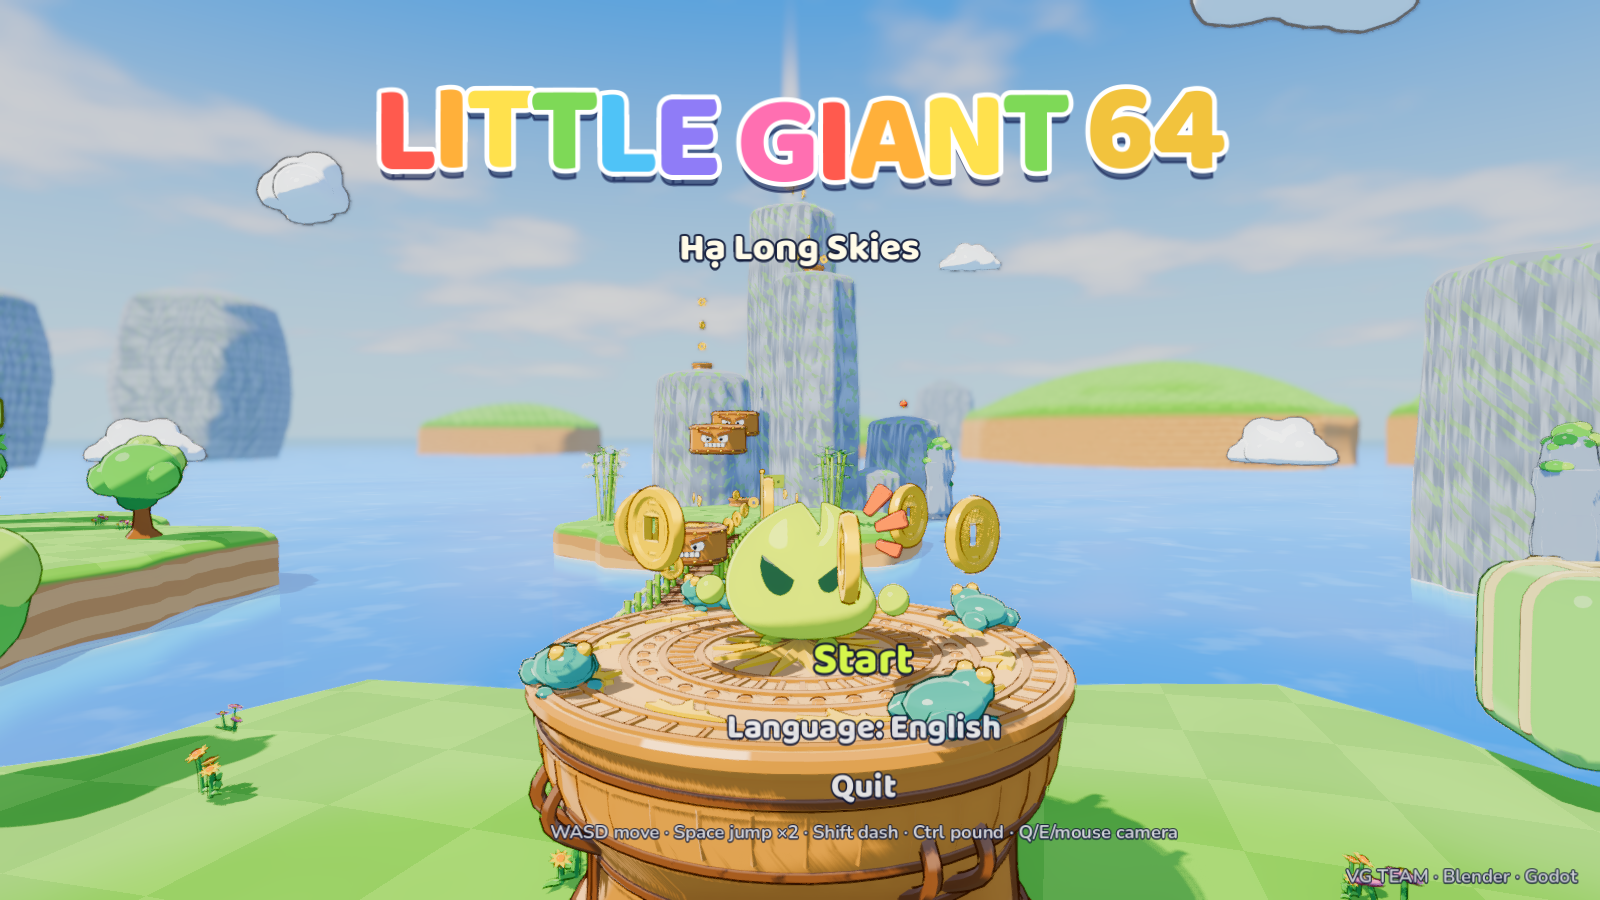
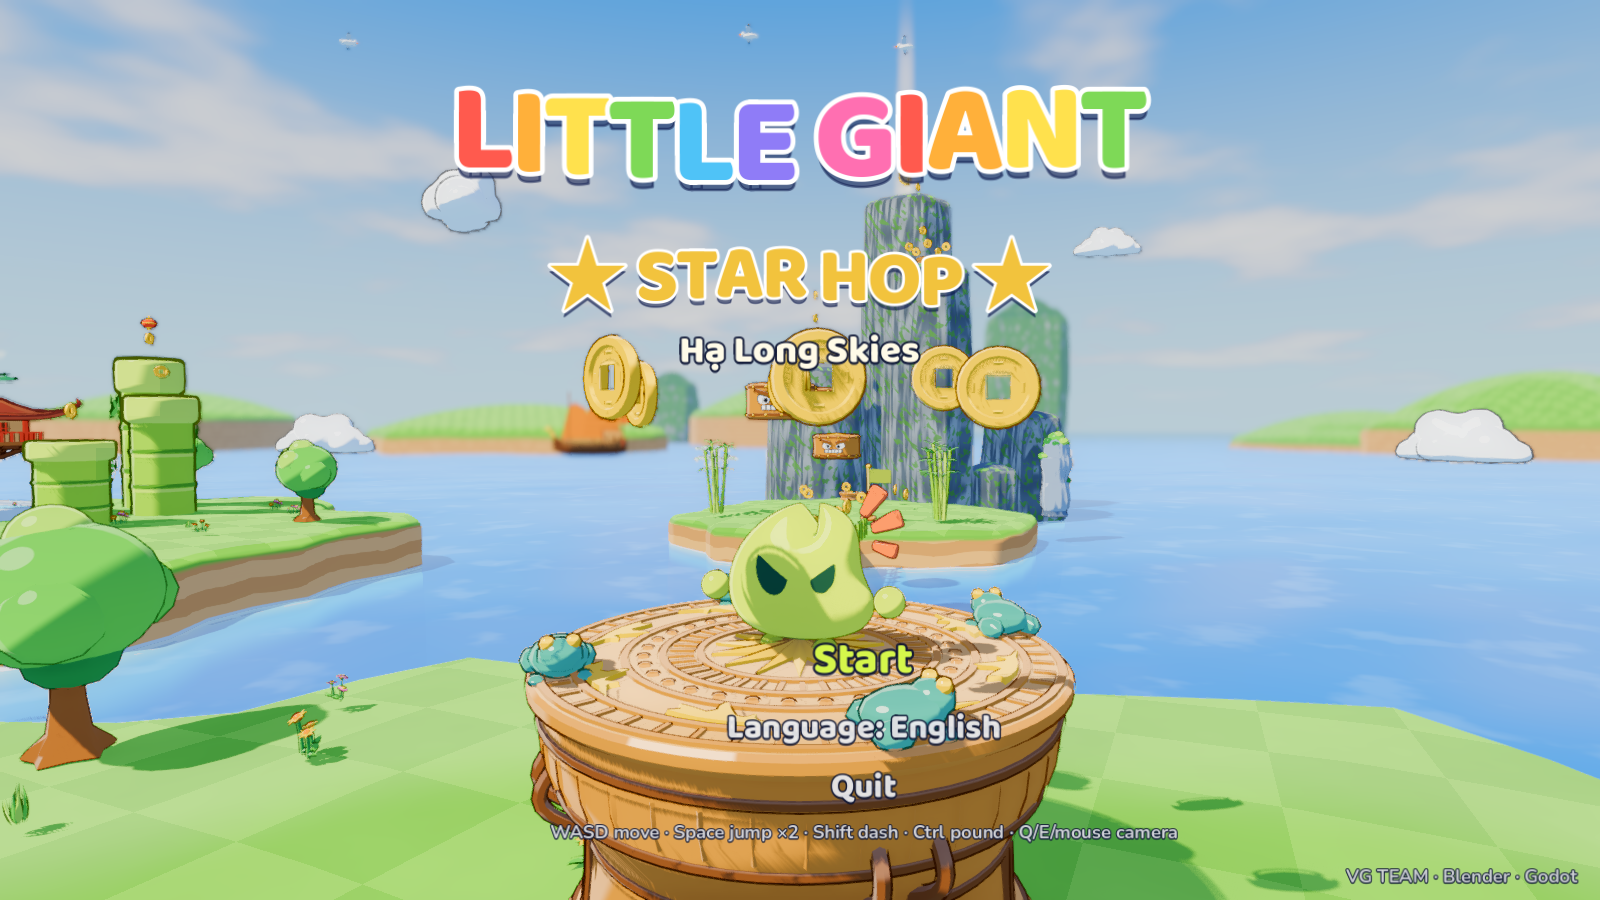
chore: prepare the repo for open source
- MIT licence for the code; the mascot and brand stay reserved
- fresh screenshots of all three levels in the README
- design doc updated for three levels and the flag cape
- no signing team in the Xcode project, font licences beside the app fonts
- one package manager (npm), generated prop tiles no longer committed

diff --git a/docs/DESIGN.md b/docs/DESIGN.md
@@ -1,9 +1,10 @@
-# Little Giant 64 — design & asset contract
+# Little Giant: Star Hop — design & asset contract
 
-A Super-Mario-64-style 3D island platformer. The VGANG mascot **Little Giant** explores
-**Hạ Long Skies**: an open world of floating islands, rice-terrace plateaus and limestone
-karsts over a bright sea. You collect bronze **Đông Sơn stars** and **đồng xu** coins.
-Collecting every star plays **ALL STARS!** and the ending card.
+A Super-Mario-64-style 3D island platformer. The VGANG mascot **Little Giant** explores three
+open levels of Vietnam: **Hạ Long Skies** (floating islands, rice-terrace plateaus and limestone
+karsts over a bright sea), **Hạ Long Bay** and **Đà Nẵng – Hội An**. You collect bronze
+**Đông Sơn stars** and **đồng xu** coins. Collecting every star of a level plays its finale and
+the ending card.
 
 Engines: **Blender 5.2** makes the character and props. **Godot 4.7.2** (Forward+) is the game.
 Everything in Blender is generated by Python scripts in `blender/`. Run a script and it rebuilds
@@ -17,7 +18,7 @@ the `.blend` source file and exports the `.glb` that Godot imports.
 - Every model's origin sits at the **ground contact point**, the centre between the feet (props:
   centre of the base).
 
-## Brand rules (from landing-v2)
+## Brand rules
 
 - Body lime `#D5F64B` (sRGB). A slightly deeper `#C6DF70` also reads well under a warm key light.
 - Eyes: forest `#234D37`. Only the two angled "gang eyes" from the brand vectors: no mouth, no
@@ -25,9 +26,9 @@ the `.blend` source file and exports the `.glb` that Godot imports.
 - Rays: orange `#FF7447`. They are three separate pieces floating off the top-right of the head.
 - Hands are **detached nubs**: small balls of body colour, as in the brand drawings, like Rayman.
   Feet are two small rounded nubs under the body in the same idea.
-- The silhouette comes from the approved SVG paths in `blender/common/mascot_artwork.json`
-  (copied verbatim from `landing-v2/src/components/little-giant/mascotArtwork.ts`). Inflate it into
-  a pebble. Never replace it with a sphere or capsule.
+- The silhouette comes from the approved brand vectors, kept verbatim as SVG paths in
+  `blender/common/mascot_artwork.json`. Inflate it into a pebble. Never replace it with a sphere or
+  capsule.
 - Studio palette for UI: ink `#09090B`, burnt orange `#D15422` / `#FF8A4B`, gold, bronze.
 
 ## Mascot — `assets/models/mascot.glb`
@@ -35,8 +36,8 @@ the `.blend` source file and exports the `.glb` that Godot imports.
 Total height about **1.15 m**: feet soles at z=0, body bottom about 0.10, peak about 1.15.
 Body is about 1.10 wide (x) and 0.70 deep (y). Eyes face −Y.
 
-A short hero **cape** hangs from the upper back: brand orange-red `#E0452B` with a small gold
-Đông Sơn star on the back. It is the cloth that shows spring-bone motion, like the reference video.
+A short hero **cape** hangs from the upper back: the Vietnamese flag, red `#DA251D` with a yellow
+5-point star. It is the cloth that shows spring-bone motion.
 Its top edge must stay behind the flanks, so the eyes stay clear from the front.
 
 ### Skeleton (exact bone names, all deform unless noted)
@@ -122,4 +123,6 @@ the colours, so name materials by role: `M_Gold`, `M_Bronze`, `M_Leaf`, `M_Wood`
 - The player is a `CharacterBody3D` whose capsule has radius 0.42 and height 1.1. The mascot scene
   is instanced under a `Model` node, and spring bones (`SpringBoneSimulator3D`) drive `ray.*`
   and `cape.*`.
-- The world is built by `@tool` scripts (`Island`, `Karst`, …), so it previews in the editor.
+- Each level is built in code at runtime: `World` (Hạ Long Skies), `HalongWorld` and
+  `DanangWorld` in `scripts/world/`. Only the `Island` and `CaveDome` meshes are `@tool`, so they
+  preview in the editor.

diff --git a/README.md b/README.md
@@ -28,6 +28,12 @@ Reanimated splash: see [mobile/README.md](mobile/README.md).
 
 ![title](docs/shots/title.png)
 
+| | |
+|---|---|
+| ![One Pillar Pagoda, Hạ Long Skies](docs/shots/skies-pagoda.jpg) | ![Floating village, Hạ Long Bay](docs/shots/halong-village.jpg) |
+| ![Ti Tốp pavilion, Hạ Long Bay](docs/shots/halong-titop.jpg) | ![Dragon Bridge, Đà Nẵng](docs/shots/danang-dragon-bridge.jpg) |
+| ![Golden Bridge, Bà Nà](docs/shots/danang-golden-bridge.jpg) | ![Chùa Cầu, Hội An](docs/shots/hoian-chua-cau.jpg) |
+
 ## Play
 
 ```bash
@@ -134,10 +140,10 @@ godot --headless --path . --import      # REQUIRED: a running game reads the old
 
 ```bash
 # every star route, played by the bot with real inputs (fast: fixed timestep)
-godot --headless --path . --fixed-fps 60 -- --bot=all
-godot --headless --path . --fixed-fps 60 -- --bot=karst --trace     # one route, with a state trace
-godot --headless --path . --fixed-fps 60 -- --level=halong --bot=hl_village,hl_cave,hl_trongmai,hl_dragon,hl_titop,hl_pearls
-godot --headless --path . --fixed-fps 60 -- --level=danang --bot=dn_dragon,dn_goldenbridge,dn_marble,dn_chuacau,dn_basket,dn_lanterns,dn_coins
+godot --headless --path . --fixed-fps 60 -- --bot=all                  # every route of Hạ Long Skies
+godot --headless --path . --fixed-fps 60 -- --level=halong --bot=all   # … of Hạ Long Bay (hl_* routes)
+godot --headless --path . --fixed-fps 60 -- --level=danang --bot=all   # … of Đà Nẵng – Hội An (dn_* routes)
+godot --headless --path . --fixed-fps 60 -- --bot=karst --trace       # one route, with a state trace
 
 godot --path . -- --tour=/tmp/tour                  # screenshots of every area
 godot --path . -- --start --warp=pagoda             # jump straight to a star (ids in Game.STARS)
@@ -175,6 +181,19 @@ mkdir -p build/macos && godot --headless --path . --export-release macOS build/m
 
 Forward+ has no web export. Switching the renderer to Compatibility would allow one, but the sea
 foam needs the depth texture.
+
+## License
+
+- **Code** (GDScript, shaders, Python and shell tools, the React Native app) is
+  [MIT](LICENSE).
+- **The Little Giant mascot and the VGANG brand** are © VGANG Studio, all rights reserved. That
+  covers the character itself and every file that depicts it: `blender/common/mascot_artwork.json`,
+  `blender/mascot/mascot.blend`, `blender/mascot/renders/`, `assets/models/mascot.glb`, `icon.png`,
+  `mobile/assets/hero.png` and the app icon. The Python scripts in `blender/mascot/` are MIT like
+  the rest of the code. You may build and run the game from this repo, but don't reuse the mascot in
+  your own projects.
+- **Music, sound effects and fonts** keep their original licences (CC0, CC BY and SIL OFL); see
+  [assets/CREDITS.md](assets/CREDITS.md).
 
 ---
 Made with ♥ by VG TEAM · Blender · Godot

diff --git a/blender/mascot/README.md b/blender/mascot/README.md
@@ -35,6 +35,7 @@ It never saves the scene back into the .blend.
 | `build_mascot.py` | geometry, materials, armature, skin weights, export |
 | `mascot_anims.py` | the `Keyer` helper and the 17 clips |
 | `render_qa.py` | QA renders |
+| `render_splash.py` | the waving mascot for the phone app's splash (`mobile/assets/hero.png`) |
 | `../common/lg_svg.py` | SVG path parser (M/L/H/V/Q/T/C/S/Z) → polylines |
 | `../common/mascot_artwork.json` | the approved brand vectors (input) |
 
@@ -187,7 +188,7 @@ How the clips are authored:
    which is safe because the rig has no helper bones.
 4. **Twist shear.** A wide pebble shears badly when the head twists over a narrow weight band.
    Big turns belong on `hips`, which is rigid, with only a few degrees on spine or head.
-   Widening the blend bands fixed the remaining crease.
+   Wide blend bands keep the body free of creases.
 5. **Lagged samples in loops.** Any sample lag inside a loop must wrap (`(f - lag) % L`), or the
    seam pops. That happened once in `dance`.
 6. **Determinism.** Geometry, weights and animation are identical run to run. The glTF
@@ -200,8 +201,7 @@ How the clips are authored:
 
 | contract | actual | why |
 |---|---|---|
-| Cape: orange-red `#E0452B` with a gold Đông Sơn star | Vietnamese flag: red `#DA251D` with a yellow 5-point star (`M_FlagStar`) | Owner's request |
-| Cape hangs to z ≈ 0.25 | Small cape, z 0.80 → 0.38 | Lime must dominate from the behind-the-hero camera (coordinator's request) |
+| Cape hangs to z ≈ 0.25 | Small cape, z 0.80 → 0.38 | Lime must dominate from the behind-the-hero camera |
 | Body about 1.10 wide | 1.17 | Keeps the brand outline's proportions at the mandated 1.05 height |
 | Hands at x ≈ ±0.60 | ±0.73 | At that height the outline itself is ±0.585 wide, so the hands would intersect the body |
 | Inflation formula based on distance to the rim | Poisson/membrane `sqrt(u)` inflation | Same balloon idea, but smoother, with no medial-axis ridges |

diff --git a/mobile/README.md b/mobile/README.md
@@ -66,6 +66,8 @@ GODOT_EDITOR=/path/to/Godot_v4.5.1/Godot.app/Contents/MacOS/Godot ./build_ios_si
 
 `build_ios_sim.sh` re-packs the game (`export_game.sh`) and builds the Release app, so the JS bundle is embedded and no Metro server is needed. Given a simulator id, it also installs and launches the app. The default editor path is `~/Applications/godot-4.5.1/Godot.app`. Get Godot 4.5.1 from https://github.com/godotengine/godot/releases/tag/4.5.1-stable (macOS universal).
 
+To run on a real iPhone, open `ios/LittleGiant64.xcworkspace`, pick your own team under *Signing & Capabilities* and change the bundle id (`studio.vgang.littlegiant64.native`) to one you own.
+
 Xcode 27 replaces Simulator.app with **Device Hub** (`Xcode.app/Contents/Applications/DeviceHub.app`). Its toolbar folds and unfolds the iPhone Duo, and clicking the screen is a real touch.
 
 ## Testing touch on a device or simulator

diff --git a/blender/props/README.md b/blender/props/README.md
@@ -24,7 +24,8 @@ Outputs:
 - `assets/models/props/<name>.glb`: glTF binary, +Y up, modifiers applied, no cameras or lights.
 - `blender/props/renders/sheet_*.png` (Hạ Long Skies), `renders/halong_sheet_*.png` (Vịnh Hạ Long) and
   `renders/danang_sheet_*.png` (Đà Nẵng – Hội An):
-  EEVEE contact sheets, 4 × 3 tiles, 1600 px wide. Per-prop tiles are in `renders/tiles/`.
+  EEVEE contact sheets, 4 × 3 tiles, 1600 px wide. Per-prop tiles go to `renders/tiles/`, which is
+  not committed.
 
 A full build takes about 6 s, and rendering takes about 15 s more.
 
